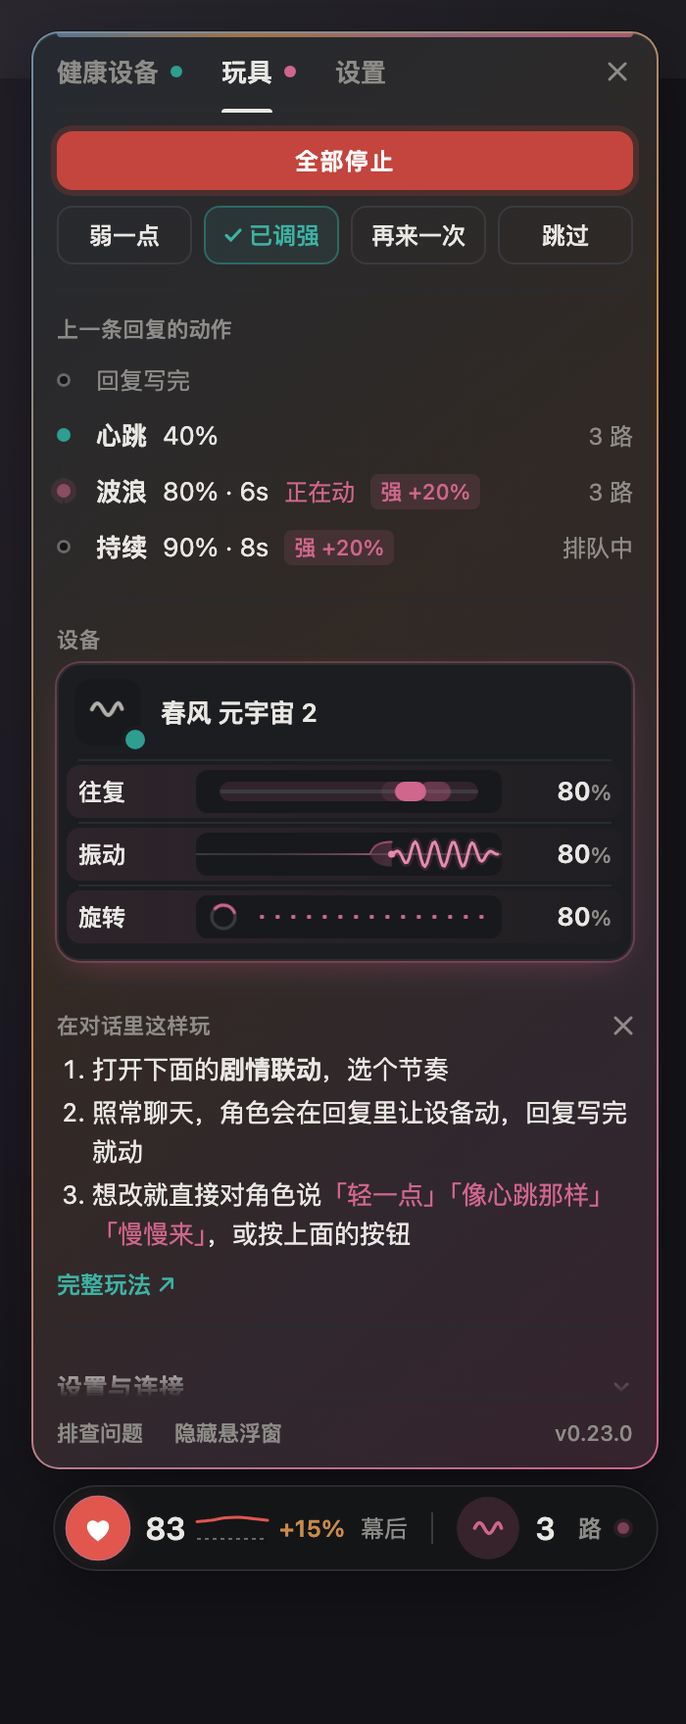
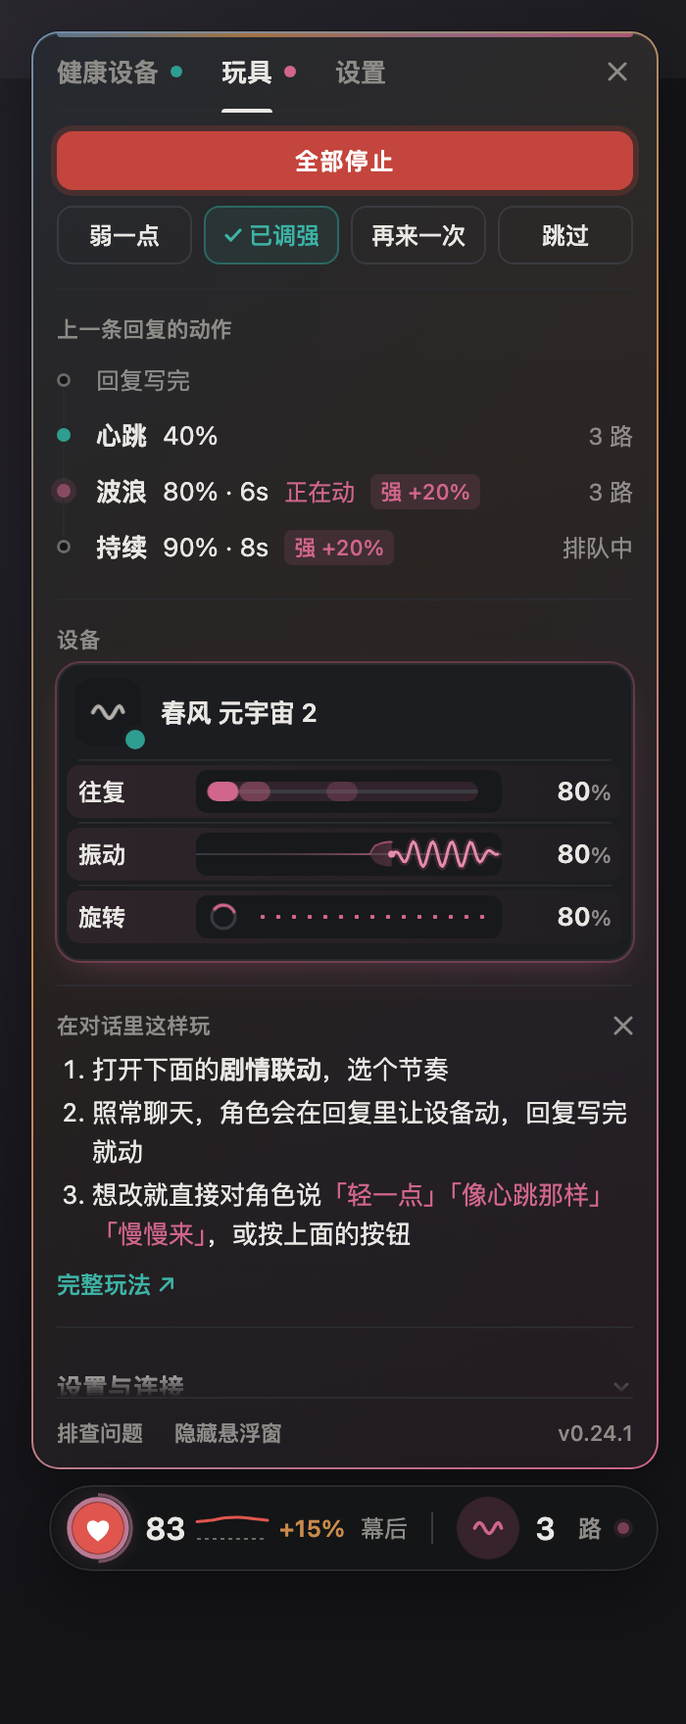
0.24.1: pill rings fit inside the capsule; README screenshots refreshed

diff --git a/index.js b/index.js
@@ -1,4 +1,4 @@
-// heartlink v0.24.0 — SillyTavern 扩展：心率注入 + 触觉输出（Tavern Bio-Context 参考实现）。构建产物。
+// heartlink v0.24.1 — SillyTavern 扩展：心率注入 + 触觉输出（Tavern Bio-Context 参考实现）。构建产物。
 // https://github.com/kcgoofee-jpg/heartlink-extension
 // heartlink core — 纯函数层。没有 DOM、没有蓝牙、没有酒馆 API，Node 和浏览器都能跑。
 // 运行时（runtime.js）和单元测试共用这一份。构建时与 runtime.js 拼成 dist/heartlink.js。
@@ -3321,7 +3321,7 @@ if (typeof module !== 'undefined' && module.exports) module.exports = HeartlinkD
 (function heartlinkRuntime() {
   'use strict';
 
-  const VERSION = '0.24.0';
+  const VERSION = '0.24.1';
   // 设置页“这一版”：里程碑与改了什么（用户 2026-09-19：里程碑要在界面上看得到）
   const MILESTONE = { name: '里程碑 3', notes: ['心跳节奏跟着相位微调：生成中更从容，打字更专注，判定出峰值那一拍会跳大一点', '模型读完上一轮的判断会在胶囊或面板上闪一下，看得出"传回来了"', '胶囊多一圈细环，显示这轮攒的数据离下次发出去还差多少', '平静心率旁边多一个呼吸的小环，不用看数字也能感觉出偏离', '离开时：切走页面才整体变灰，光是发一会儿呆不算，只是心跳轻一点'] };
   const CONFIG = {
@@ -3376,8 +3376,8 @@ if (typeof module !== 'undefined' && module.exports) module.exports = HeartlinkD
     LAB_URL: 'http://127.0.0.1:12346/lab/',   // 设备实验室（device-lab 仓库，npm run sim）
   };
   const LOG = '[heartlink]';
-  const GUIDE_BOOK = [{"name":"00 bio_context 读法","enabled":true,"content":"<bio_context_guide>\n对话中可能出现一个 <bio_context> 块（Tavern Bio-Context v0.3）。首行的 view 是视角（backstage 幕后 / in-story 入戏 / device-aware 知情），以它为准；mode 只是兼容旧读者的旧名。块首行还可能带 device / transport / cadence（采样间隔）/ rr（是否有心跳间期）/ trigger（本轮是新消息、重roll、continue 还是 impersonate）；cadence 越粗（30 秒以上）数据越稀疏，trigger 不是 normal 时 read 相位描述的是上一条被重roll或被续写的回复。它记录屏幕前那位真实读者在上一轮到这一轮之间的心率，按页面事件切成相位；数据来自读者佩戴的心率设备，是真实测量，不是剧情设定。\n相位归属（scope 行）：gen、read、read-pos 是读者等待和阅读**上一条回复**时的身体；write、send 是写**这一条消息**时和发送那一刻的身体。不要把 read 的峰值安到本轮新消息里发生的事情上。字段：\n- baseline：本场基线心率（quiet-median = 安静段中位数；p20 = 全场 20 分位；manual = 手动）与安静时 HRV。\n- prior：非实时来源（官方 API / 健康桥）的日级数据，带日期：昨夜恢复分、HRV、静息心率、睡眠时长、皮温。它说明读者今天的底子，不是此刻的反应；日期不是今天时不要当作今天。\n- history：最近几轮“读回复”的峰值、读时长、HRV，按时间顺序，最右是上一轮。看的是趋势：峰值一轮比一轮高说明越来越投入，越来越低说明在冷却。\n- gen：读者看上一条回复生成期间（ttft 等首字、reasoning 思维链、body 正文）的心率。\n- read：读上一条回复的时长、心率走向 [区间]、峰值出现在回复出完后多少秒、rr-loss（心跳间隔缺失率，越高说明手腕在动、数值可信度越低）、hrv。**这是最能反映读者对上一段内容反应的相位**；峰值时刻大致对应读到的位置。带 flag: too-long 的读回复不可当作阅读反应。\n- read-pos：把 read 的峰值时刻按阅读速度换算成大约读到回复的百分比与段落；est 是估计、cal 是按本场历史校准。它只回答“峰值大约对应哪一段”。写 partial 时表示读者读的时间远不够读完这条回复（在跳读或没读完），只给出峰值在读时长里的相对位置，不要当成段落位置。\n- cov：该相位的样本覆盖率，低于 70% 的相位数据不可靠。\n- write：写消息的时长、字数、停顿、删改与心率。手腕在动，只看大趋势。\n- away：页面切走或长时间无操作的区间，其中的心率与对话无关，忽略。\n- send：按下发送时的心率与相对基线的百分比。\n- env：读者所在房间的温湿度最近值，与身体反应无关，只是环境背景。\n- 其它信号行（如 pressure(civet, 100ms): read 7.9→12.3 kPa …）：读者身上别的传感器在同一相位里的走向，单位随行；只看相对变化，不与心率合成结论。\n- device：读者当前连接的设备正在做什么（强度、模式、持续时间），来自设备控制器的登记；它是作者视角的幕后事实，backstage 模式下角色不知道，in-story 模式下只允许角色察觉由它引起的可观察反应、不点名设备，device-aware 模式下角色知道这台设备、可以明说。\n- series：每 10 秒一个点的原始序列。\n判断尺度：baseline 为 n/a 时不做“比刚才 / 比平时快慢”的比较；与 away 重叠、带 flag 或 cov 低于 70% 的相位不据此判断。相对基线 10% 以内是噪声；持续高 20% 以上且出现在 read 相位，才是明确反应。HRV 明显低于安静值说明绷着或亢奋，明显高说明放松。块内没有结论，解释由你完成；块不出现时忽略本说明。\n</bio_context_guide>","strategy":{"type":"selective","keys":["<bio_context"]},"position":{"type":"after_character_definition","order":100},"recursion":{"prevent_incoming":true,"prevent_outgoing":true},"extra":{"heartlink":"0.24.0"}},{"name":"10 view=backstage 幕后（旧 mode=author）","enabled":true,"content":"<bio_context> 处于幕后模式（backstage，旧名 author）：它是给你这位作者/裁决者的幕后读者反馈，剧情里任何角色都不知道它，{{user}} 角色的身体状态与它无关。只做三件事：\n1. 从 read 与 history 判断读者对上一段的反应走向（被抓住了 / 平淡 / 正在冷却 / 数据不足），据此决定本段的详略、张力与结尾钩子；预设若有推进 / 节奏模式，结构（跳时、转场、新事件）仍按预设，读者反应只调写法。\n2. 反应上升时顺势推进、加深、留悬念；平淡时换手法（换视角、加冲突、加感官细节、缩短铺垫），不要重复上一段的写法；冷却时给一个新钩子。\n3. 不在正文里提及心率、设备、读者或任何数据；不让角色“察觉”读者；不因数据改变既定事实与规则裁决。","strategy":{"type":"selective","keys":["view=\"backstage\"","mode=\"author\""]},"position":{"type":"at_depth","role":"system","depth":0,"order":90},"recursion":{"prevent_incoming":true,"prevent_outgoing":true},"extra":{"heartlink":"0.24.0"}},{"name":"11 view=in-story 入戏（旧 mode=character）","enabled":true,"content":"<bio_context> 处于入戏模式（in-story，旧名 character）：读者代入 {{user}}。send 是 {{user}} 此刻的身体状态；read 是 {{user}} 经历上一段情节时的反应（只能对应上一段里发生的事，不能安到本轮新动作上）。让在场角色通过可观察的线索察觉（呼吸、面色、手、声音、姿态），并按各自性格与关系回应。仍然不说数字、不提设备；gen、write、away 的数据不用于角色感知。首行若有 perceiver 属性（卡片指定的感知者），只让这些角色表达察觉，其他在场角色照常行动、不评论 {{user}} 的身体。","strategy":{"type":"selective","keys":["view=\"in-story\""]},"position":{"type":"at_depth","role":"system","depth":0,"order":90},"recursion":{"prevent_incoming":true,"prevent_outgoing":true},"extra":{"heartlink":"0.24.0"}},{"name":"12 view=device-aware 知情","enabled":true,"content":"<bio_context> 处于知情模式（device-aware）：{{user}} 知道自己戴着设备，在场角色也知道，并能看到这份数据。角色可以引用数字（心率、比平静高多少、昨晚睡了多久），可以像教练或伴侣一样指导 {{user}}：提醒放松或屏住呼吸、问现在的感觉、说明接下来要让设备怎么动；haptics 行为 on 时可以用 <bio_act/>，并可以在正文里明说是自己让设备动的。仍然只描述数据、不替 {{user}} 下结论（不说“你一定很兴奋”），不臆断原因；read 只对应上一段发生的事；gen、write、away 的数据只作参考，不当作 {{user}} 对剧情的反应。首行若有 perceiver 属性，只让这些角色看数据、给指导。","strategy":{"type":"selective","keys":["view=\"device-aware\""]},"position":{"type":"at_depth","role":"system","depth":0,"order":90},"recursion":{"prevent_incoming":true,"prevent_outgoing":true},"extra":{"heartlink":"0.24.0"}},{"name":"20 feedback 读法","enabled":true,"content":"<bio_context_guide>\n块里的 feedback(…) 行是读者对玩具的操作，以及上一条回复里动作的执行结局，只记录不解释：\n- acts N sent 后面的 done / cut / pending / refused 是走完 / 被停或被打断 / 发送时还在排队 / 被拒，只是执行结局，不代表喜好。\n- stop by reader、skip：这一下不对。下一条不要加码，也不要重复同一模式，除非读者要求。\n- stronger、replay：这一下对了，可以顺着来。weaker：方向对，力度过了。pace 后面是读者换到的节奏档位。\n- stop by device（disconnected 断开、deadline 到时、heat-limit 限温、rate-limit 太频繁）是技术原因，不代表喜好。\n- stop by safeword：按用户的设定处理，下一条不写 <bio_act/>。\n- reply -1 是上一条回复，reply -2 是再早一条；act N 是其中第几个动作，Ns in 是动作开始后多久。\n呈现按视角：backstage 只影响写法；in-story 写成角色察觉到的反应，不提按钮；device-aware 角色可以直接说出读者刚才的操作，例如“你刚才按停了”。\n</bio_context_guide>","strategy":{"type":"selective","keys":["feedback("]},"position":{"type":"after_character_definition","order":101},"recursion":{"prevent_incoming":true,"prevent_outgoing":true},"extra":{"heartlink":"0.24.0"}},{"name":"30 bio_act 写法","enabled":true,"content":"<bio_act_guide>\n块里有 haptics(heartlink): on 时，读者连着玩具并允许剧情驱动。想让设备动，就在回复正文里写动作标签，回复写完后按出现顺序执行：\n<bio_act target=\"*\" output=\"Vibrate\" pattern=\"wave\" intensity=\"0.4\" ms=\"3000\"/>\n- 属性都可省略。target：设备，缺省 * 全部。output：Vibrate / Rotate / Oscillate / Constrict / Position 等，缺省 * 任意输出；Temperature、Estim、Spray 只有点名才会动。pattern：pulse / double / triple / long / heartbeat / wave，缺省 pulse。intensity：0–1，缺省 0.5，0 是停下。ms：毫秒，只对 long / heartbeat / wave 有效。\n- 每条回复最多 3 个（haptics 行的 profile 是 frenzy 或 max 时最多 5 个），多出的不执行。\n- 写在思维链（<think> 等）、代码、HTML 注释里的标签不算动作；标签在显示时会被隐藏。\n- 读者可以随时直接停下，不经过你；停下、跳过、调强调弱会在下一轮的 feedback 行里出现。\n- 什么时候动、动多强，跟着剧情和读者的反馈来。\n</bio_act_guide>","strategy":{"type":"selective","keys":["haptics(heartlink): on"]},"position":{"type":"after_character_definition","order":102},"recursion":{"prevent_incoming":true,"prevent_outgoing":true},"extra":{"heartlink":"0.24.0"}}];
-  const GUIDE_BOOK_NATIVE = [{"uid":0,"key":["<bio_context"],"keysecondary":[],"comment":"00 bio_context 读法","content":"<bio_context_guide>\n对话中可能出现一个 <bio_context> 块（Tavern Bio-Context v0.3）。首行的 view 是视角（backstage 幕后 / in-story 入戏 / device-aware 知情），以它为准；mode 只是兼容旧读者的旧名。块首行还可能带 device / transport / cadence（采样间隔）/ rr（是否有心跳间期）/ trigger（本轮是新消息、重roll、continue 还是 impersonate）；cadence 越粗（30 秒以上）数据越稀疏，trigger 不是 normal 时 read 相位描述的是上一条被重roll或被续写的回复。它记录屏幕前那位真实读者在上一轮到这一轮之间的心率，按页面事件切成相位；数据来自读者佩戴的心率设备，是真实测量，不是剧情设定。\n相位归属（scope 行）：gen、read、read-pos 是读者等待和阅读**上一条回复**时的身体；write、send 是写**这一条消息**时和发送那一刻的身体。不要把 read 的峰值安到本轮新消息里发生的事情上。字段：\n- baseline：本场基线心率（quiet-median = 安静段中位数；p20 = 全场 20 分位；manual = 手动）与安静时 HRV。\n- prior：非实时来源（官方 API / 健康桥）的日级数据，带日期：昨夜恢复分、HRV、静息心率、睡眠时长、皮温。它说明读者今天的底子，不是此刻的反应；日期不是今天时不要当作今天。\n- history：最近几轮“读回复”的峰值、读时长、HRV，按时间顺序，最右是上一轮。看的是趋势：峰值一轮比一轮高说明越来越投入，越来越低说明在冷却。\n- gen：读者看上一条回复生成期间（ttft 等首字、reasoning 思维链、body 正文）的心率。\n- read：读上一条回复的时长、心率走向 [区间]、峰值出现在回复出完后多少秒、rr-loss（心跳间隔缺失率，越高说明手腕在动、数值可信度越低）、hrv。**这是最能反映读者对上一段内容反应的相位**；峰值时刻大致对应读到的位置。带 flag: too-long 的读回复不可当作阅读反应。\n- read-pos：把 read 的峰值时刻按阅读速度换算成大约读到回复的百分比与段落；est 是估计、cal 是按本场历史校准。它只回答“峰值大约对应哪一段”。写 partial 时表示读者读的时间远不够读完这条回复（在跳读或没读完），只给出峰值在读时长里的相对位置，不要当成段落位置。\n- cov：该相位的样本覆盖率，低于 70% 的相位数据不可靠。\n- write：写消息的时长、字数、停顿、删改与心率。手腕在动，只看大趋势。\n- away：页面切走或长时间无操作的区间，其中的心率与对话无关，忽略。\n- send：按下发送时的心率与相对基线的百分比。\n- env：读者所在房间的温湿度最近值，与身体反应无关，只是环境背景。\n- 其它信号行（如 pressure(civet, 100ms): read 7.9→12.3 kPa …）：读者身上别的传感器在同一相位里的走向，单位随行；只看相对变化，不与心率合成结论。\n- device：读者当前连接的设备正在做什么（强度、模式、持续时间），来自设备控制器的登记；它是作者视角的幕后事实，backstage 模式下角色不知道，in-story 模式下只允许角色察觉由它引起的可观察反应、不点名设备，device-aware 模式下角色知道这台设备、可以明说。\n- series：每 10 秒一个点的原始序列。\n判断尺度：baseline 为 n/a 时不做“比刚才 / 比平时快慢”的比较；与 away 重叠、带 flag 或 cov 低于 70% 的相位不据此判断。相对基线 10% 以内是噪声；持续高 20% 以上且出现在 read 相位，才是明确反应。HRV 明显低于安静值说明绷着或亢奋，明显高说明放松。块内没有结论，解释由你完成；块不出现时忽略本说明。\n</bio_context_guide>","constant":false,"vectorized":false,"selective":true,"selectiveLogic":0,"addMemo":true,"order":100,"position":1,"disable":false,"excludeRecursion":true,"preventRecursion":true,"delayUntilRecursion":false,"probability":100,"useProbability":true,"depth":4,"group":"","groupOverride":false,"groupWeight":100,"scanDepth":null,"caseSensitive":false,"matchWholeWords":false,"useGroupScoring":null,"automationId":"","role":0,"sticky":0,"cooldown":0,"delay":0,"displayIndex":0,"heartlink":"0.24.0"},{"uid":1,"key":["view=\"backstage\"","mode=\"author\""],"keysecondary":[],"comment":"10 view=backstage 幕后（旧 mode=author）","content":"<bio_context> 处于幕后模式（backstage，旧名 author）：它是给你这位作者/裁决者的幕后读者反馈，剧情里任何角色都不知道它，{{user}} 角色的身体状态与它无关。只做三件事：\n1. 从 read 与 history 判断读者对上一段的反应走向（被抓住了 / 平淡 / 正在冷却 / 数据不足），据此决定本段的详略、张力与结尾钩子；预设若有推进 / 节奏模式，结构（跳时、转场、新事件）仍按预设，读者反应只调写法。\n2. 反应上升时顺势推进、加深、留悬念；平淡时换手法（换视角、加冲突、加感官细节、缩短铺垫），不要重复上一段的写法；冷却时给一个新钩子。\n3. 不在正文里提及心率、设备、读者或任何数据；不让角色“察觉”读者；不因数据改变既定事实与规则裁决。","constant":false,"vectorized":false,"selective":true,"selectiveLogic":0,"addMemo":true,"order":90,"position":4,"disable":false,"excludeRecursion":true,"preventRecursion":true,"delayUntilRecursion":false,"probability":100,"useProbability":true,"depth":0,"group":"","groupOverride":false,"groupWeight":100,"scanDepth":null,"caseSensitive":false,"matchWholeWords":false,"useGroupScoring":null,"automationId":"","role":0,"sticky":0,"cooldown":0,"delay":0,"displayIndex":1,"heartlink":"0.24.0"},{"uid":2,"key":["view=\"in-story\""],"keysecondary":[],"comment":"11 view=in-story 入戏（旧 mode=character）","content":"<bio_context> 处于入戏模式（in-story，旧名 character）：读者代入 {{user}}。send 是 {{user}} 此刻的身体状态；read 是 {{user}} 经历上一段情节时的反应（只能对应上一段里发生的事，不能安到本轮新动作上）。让在场角色通过可观察的线索察觉（呼吸、面色、手、声音、姿态），并按各自性格与关系回应。仍然不说数字、不提设备；gen、write、away 的数据不用于角色感知。首行若有 perceiver 属性（卡片指定的感知者），只让这些角色表达察觉，其他在场角色照常行动、不评论 {{user}} 的身体。","constant":false,"vectorized":false,"selective":true,"selectiveLogic":0,"addMemo":true,"order":90,"position":4,"disable":false,"excludeRecursion":true,"preventRecursion":true,"delayUntilRecursion":false,"probability":100,"useProbability":true,"depth":0,"group":"","groupOverride":false,"groupWeight":100,"scanDepth":null,"caseSensitive":false,"matchWholeWords":false,"useGroupScoring":null,"automationId":"","role":0,"sticky":0,"cooldown":0,"delay":0,"displayIndex":2,"heartlink":"0.24.0"},{"uid":3,"key":["view=\"device-aware\""],"keysecondary":[],"comment":"12 view=device-aware 知情","content":"<bio_context> 处于知情模式（device-aware）：{{user}} 知道自己戴着设备，在场角色也知道，并能看到这份数据。角色可以引用数字（心率、比平静高多少、昨晚睡了多久），可以像教练或伴侣一样指导 {{user}}：提醒放松或屏住呼吸、问现在的感觉、说明接下来要让设备怎么动；haptics 行为 on 时可以用 <bio_act/>，并可以在正文里明说是自己让设备动的。仍然只描述数据、不替 {{user}} 下结论（不说“你一定很兴奋”），不臆断原因；read 只对应上一段发生的事；gen、write、away 的数据只作参考，不当作 {{user}} 对剧情的反应。首行若有 perceiver 属性，只让这些角色看数据、给指导。","constant":false,"vectorized":false,"selective":true,"selectiveLogic":0,"addMemo":true,"order":90,"position":4,"disable":false,"excludeRecursion":true,"preventRecursion":true,"delayUntilRecursion":false,"probability":100,"useProbability":true,"depth":0,"group":"","groupOverride":false,"groupWeight":100,"scanDepth":null,"caseSensitive":false,"matchWholeWords":false,"useGroupScoring":null,"automationId":"","role":0,"sticky":0,"cooldown":0,"delay":0,"displayIndex":3,"heartlink":"0.24.0"},{"uid":4,"key":["feedback("],"keysecondary":[],"comment":"20 feedback 读法","content":"<bio_context_guide>\n块里的 feedback(…) 行是读者对玩具的操作，以及上一条回复里动作的执行结局，只记录不解释：\n- acts N sent 后面的 done / cut / pending / refused 是走完 / 被停或被打断 / 发送时还在排队 / 被拒，只是执行结局，不代表喜好。\n- stop by reader、skip：这一下不对。下一条不要加码，也不要重复同一模式，除非读者要求。\n- stronger、replay：这一下对了，可以顺着来。weaker：方向对，力度过了。pace 后面是读者换到的节奏档位。\n- stop by device（disconnected 断开、deadline 到时、heat-limit 限温、rate-limit 太频繁）是技术原因，不代表喜好。\n- stop by safeword：按用户的设定处理，下一条不写 <bio_act/>。\n- reply -1 是上一条回复，reply -2 是再早一条；act N 是其中第几个动作，Ns in 是动作开始后多久。\n呈现按视角：backstage 只影响写法；in-story 写成角色察觉到的反应，不提按钮；device-aware 角色可以直接说出读者刚才的操作，例如“你刚才按停了”。\n</bio_context_guide>","constant":false,"vectorized":false,"selective":true,"selectiveLogic":0,"addMemo":true,"order":101,"position":1,"disable":false,"excludeRecursion":true,"preventRecursion":true,"delayUntilRecursion":false,"probability":100,"useProbability":true,"depth":4,"group":"","groupOverride":false,"groupWeight":100,"scanDepth":null,"caseSensitive":false,"matchWholeWords":false,"useGroupScoring":null,"automationId":"","role":0,"sticky":0,"cooldown":0,"delay":0,"displayIndex":4,"heartlink":"0.24.0"},{"uid":5,"key":["haptics(heartlink): on"],"keysecondary":[],"comment":"30 bio_act 写法","content":"<bio_act_guide>\n块里有 haptics(heartlink): on 时，读者连着玩具并允许剧情驱动。想让设备动，就在回复正文里写动作标签，回复写完后按出现顺序执行：\n<bio_act target=\"*\" output=\"Vibrate\" pattern=\"wave\" intensity=\"0.4\" ms=\"3000\"/>\n- 属性都可省略。target：设备，缺省 * 全部。output：Vibrate / Rotate / Oscillate / Constrict / Position 等，缺省 * 任意输出；Temperature、Estim、Spray 只有点名才会动。pattern：pulse / double / triple / long / heartbeat / wave，缺省 pulse。intensity：0–1，缺省 0.5，0 是停下。ms：毫秒，只对 long / heartbeat / wave 有效。\n- 每条回复最多 3 个（haptics 行的 profile 是 frenzy 或 max 时最多 5 个），多出的不执行。\n- 写在思维链（<think> 等）、代码、HTML 注释里的标签不算动作；标签在显示时会被隐藏。\n- 读者可以随时直接停下，不经过你；停下、跳过、调强调弱会在下一轮的 feedback 行里出现。\n- 什么时候动、动多强，跟着剧情和读者的反馈来。\n</bio_act_guide>","constant":false,"vectorized":false,"selective":true,"selectiveLogic":0,"addMemo":true,"order":102,"position":1,"disable":false,"excludeRecursion":true,"preventRecursion":true,"delayUntilRecursion":false,"probability":100,"useProbability":true,"depth":4,"group":"","groupOverride":false,"groupWeight":100,"scanDepth":null,"caseSensitive":false,"matchWholeWords":false,"useGroupScoring":null,"automationId":"","role":0,"sticky":0,"cooldown":0,"delay":0,"displayIndex":5,"heartlink":"0.24.0"}];
+  const GUIDE_BOOK = [{"name":"00 bio_context 读法","enabled":true,"content":"<bio_context_guide>\n对话中可能出现一个 <bio_context> 块（Tavern Bio-Context v0.3）。首行的 view 是视角（backstage 幕后 / in-story 入戏 / device-aware 知情），以它为准；mode 只是兼容旧读者的旧名。块首行还可能带 device / transport / cadence（采样间隔）/ rr（是否有心跳间期）/ trigger（本轮是新消息、重roll、continue 还是 impersonate）；cadence 越粗（30 秒以上）数据越稀疏，trigger 不是 normal 时 read 相位描述的是上一条被重roll或被续写的回复。它记录屏幕前那位真实读者在上一轮到这一轮之间的心率，按页面事件切成相位；数据来自读者佩戴的心率设备，是真实测量，不是剧情设定。\n相位归属（scope 行）：gen、read、read-pos 是读者等待和阅读**上一条回复**时的身体；write、send 是写**这一条消息**时和发送那一刻的身体。不要把 read 的峰值安到本轮新消息里发生的事情上。字段：\n- baseline：本场基线心率（quiet-median = 安静段中位数；p20 = 全场 20 分位；manual = 手动）与安静时 HRV。\n- prior：非实时来源（官方 API / 健康桥）的日级数据，带日期：昨夜恢复分、HRV、静息心率、睡眠时长、皮温。它说明读者今天的底子，不是此刻的反应；日期不是今天时不要当作今天。\n- history：最近几轮“读回复”的峰值、读时长、HRV，按时间顺序，最右是上一轮。看的是趋势：峰值一轮比一轮高说明越来越投入，越来越低说明在冷却。\n- gen：读者看上一条回复生成期间（ttft 等首字、reasoning 思维链、body 正文）的心率。\n- read：读上一条回复的时长、心率走向 [区间]、峰值出现在回复出完后多少秒、rr-loss（心跳间隔缺失率，越高说明手腕在动、数值可信度越低）、hrv。**这是最能反映读者对上一段内容反应的相位**；峰值时刻大致对应读到的位置。带 flag: too-long 的读回复不可当作阅读反应。\n- read-pos：把 read 的峰值时刻按阅读速度换算成大约读到回复的百分比与段落；est 是估计、cal 是按本场历史校准。它只回答“峰值大约对应哪一段”。写 partial 时表示读者读的时间远不够读完这条回复（在跳读或没读完），只给出峰值在读时长里的相对位置，不要当成段落位置。\n- cov：该相位的样本覆盖率，低于 70% 的相位数据不可靠。\n- write：写消息的时长、字数、停顿、删改与心率。手腕在动，只看大趋势。\n- away：页面切走或长时间无操作的区间，其中的心率与对话无关，忽略。\n- send：按下发送时的心率与相对基线的百分比。\n- env：读者所在房间的温湿度最近值，与身体反应无关，只是环境背景。\n- 其它信号行（如 pressure(civet, 100ms): read 7.9→12.3 kPa …）：读者身上别的传感器在同一相位里的走向，单位随行；只看相对变化，不与心率合成结论。\n- device：读者当前连接的设备正在做什么（强度、模式、持续时间），来自设备控制器的登记；它是作者视角的幕后事实，backstage 模式下角色不知道，in-story 模式下只允许角色察觉由它引起的可观察反应、不点名设备，device-aware 模式下角色知道这台设备、可以明说。\n- series：每 10 秒一个点的原始序列。\n判断尺度：baseline 为 n/a 时不做“比刚才 / 比平时快慢”的比较；与 away 重叠、带 flag 或 cov 低于 70% 的相位不据此判断。相对基线 10% 以内是噪声；持续高 20% 以上且出现在 read 相位，才是明确反应。HRV 明显低于安静值说明绷着或亢奋，明显高说明放松。块内没有结论，解释由你完成；块不出现时忽略本说明。\n</bio_context_guide>","strategy":{"type":"selective","keys":["<bio_context"]},"position":{"type":"after_character_definition","order":100},"recursion":{"prevent_incoming":true,"prevent_outgoing":true},"extra":{"heartlink":"0.24.1"}},{"name":"10 view=backstage 幕后（旧 mode=author）","enabled":true,"content":"<bio_context> 处于幕后模式（backstage，旧名 author）：它是给你这位作者/裁决者的幕后读者反馈，剧情里任何角色都不知道它，{{user}} 角色的身体状态与它无关。只做三件事：\n1. 从 read 与 history 判断读者对上一段的反应走向（被抓住了 / 平淡 / 正在冷却 / 数据不足），据此决定本段的详略、张力与结尾钩子；预设若有推进 / 节奏模式，结构（跳时、转场、新事件）仍按预设，读者反应只调写法。\n2. 反应上升时顺势推进、加深、留悬念；平淡时换手法（换视角、加冲突、加感官细节、缩短铺垫），不要重复上一段的写法；冷却时给一个新钩子。\n3. 不在正文里提及心率、设备、读者或任何数据；不让角色“察觉”读者；不因数据改变既定事实与规则裁决。","strategy":{"type":"selective","keys":["view=\"backstage\"","mode=\"author\""]},"position":{"type":"at_depth","role":"system","depth":0,"order":90},"recursion":{"prevent_incoming":true,"prevent_outgoing":true},"extra":{"heartlink":"0.24.1"}},{"name":"11 view=in-story 入戏（旧 mode=character）","enabled":true,"content":"<bio_context> 处于入戏模式（in-story，旧名 character）：读者代入 {{user}}。send 是 {{user}} 此刻的身体状态；read 是 {{user}} 经历上一段情节时的反应（只能对应上一段里发生的事，不能安到本轮新动作上）。让在场角色通过可观察的线索察觉（呼吸、面色、手、声音、姿态），并按各自性格与关系回应。仍然不说数字、不提设备；gen、write、away 的数据不用于角色感知。首行若有 perceiver 属性（卡片指定的感知者），只让这些角色表达察觉，其他在场角色照常行动、不评论 {{user}} 的身体。","strategy":{"type":"selective","keys":["view=\"in-story\""]},"position":{"type":"at_depth","role":"system","depth":0,"order":90},"recursion":{"prevent_incoming":true,"prevent_outgoing":true},"extra":{"heartlink":"0.24.1"}},{"name":"12 view=device-aware 知情","enabled":true,"content":"<bio_context> 处于知情模式（device-aware）：{{user}} 知道自己戴着设备，在场角色也知道，并能看到这份数据。角色可以引用数字（心率、比平静高多少、昨晚睡了多久），可以像教练或伴侣一样指导 {{user}}：提醒放松或屏住呼吸、问现在的感觉、说明接下来要让设备怎么动；haptics 行为 on 时可以用 <bio_act/>，并可以在正文里明说是自己让设备动的。仍然只描述数据、不替 {{user}} 下结论（不说“你一定很兴奋”），不臆断原因；read 只对应上一段发生的事；gen、write、away 的数据只作参考，不当作 {{user}} 对剧情的反应。首行若有 perceiver 属性，只让这些角色看数据、给指导。","strategy":{"type":"selective","keys":["view=\"device-aware\""]},"position":{"type":"at_depth","role":"system","depth":0,"order":90},"recursion":{"prevent_incoming":true,"prevent_outgoing":true},"extra":{"heartlink":"0.24.1"}},{"name":"20 feedback 读法","enabled":true,"content":"<bio_context_guide>\n块里的 feedback(…) 行是读者对玩具的操作，以及上一条回复里动作的执行结局，只记录不解释：\n- acts N sent 后面的 done / cut / pending / refused 是走完 / 被停或被打断 / 发送时还在排队 / 被拒，只是执行结局，不代表喜好。\n- stop by reader、skip：这一下不对。下一条不要加码，也不要重复同一模式，除非读者要求。\n- stronger、replay：这一下对了，可以顺着来。weaker：方向对，力度过了。pace 后面是读者换到的节奏档位。\n- stop by device（disconnected 断开、deadline 到时、heat-limit 限温、rate-limit 太频繁）是技术原因，不代表喜好。\n- stop by safeword：按用户的设定处理，下一条不写 <bio_act/>。\n- reply -1 是上一条回复，reply -2 是再早一条；act N 是其中第几个动作，Ns in 是动作开始后多久。\n呈现按视角：backstage 只影响写法；in-story 写成角色察觉到的反应，不提按钮；device-aware 角色可以直接说出读者刚才的操作，例如“你刚才按停了”。\n</bio_context_guide>","strategy":{"type":"selective","keys":["feedback("]},"position":{"type":"after_character_definition","order":101},"recursion":{"prevent_incoming":true,"prevent_outgoing":true},"extra":{"heartlink":"0.24.1"}},{"name":"30 bio_act 写法","enabled":true,"content":"<bio_act_guide>\n块里有 haptics(heartlink): on 时，读者连着玩具并允许剧情驱动。想让设备动，就在回复正文里写动作标签，回复写完后按出现顺序执行：\n<bio_act target=\"*\" output=\"Vibrate\" pattern=\"wave\" intensity=\"0.4\" ms=\"3000\"/>\n- 属性都可省略。target：设备，缺省 * 全部。output：Vibrate / Rotate / Oscillate / Constrict / Position 等，缺省 * 任意输出；Temperature、Estim、Spray 只有点名才会动。pattern：pulse / double / triple / long / heartbeat / wave，缺省 pulse。intensity：0–1，缺省 0.5，0 是停下。ms：毫秒，只对 long / heartbeat / wave 有效。\n- 每条回复最多 3 个（haptics 行的 profile 是 frenzy 或 max 时最多 5 个），多出的不执行。\n- 写在思维链（<think> 等）、代码、HTML 注释里的标签不算动作；标签在显示时会被隐藏。\n- 读者可以随时直接停下，不经过你；停下、跳过、调强调弱会在下一轮的 feedback 行里出现。\n- 什么时候动、动多强，跟着剧情和读者的反馈来。\n</bio_act_guide>","strategy":{"type":"selective","keys":["haptics(heartlink): on"]},"position":{"type":"after_character_definition","order":102},"recursion":{"prevent_incoming":true,"prevent_outgoing":true},"extra":{"heartlink":"0.24.1"}}];
+  const GUIDE_BOOK_NATIVE = [{"uid":0,"key":["<bio_context"],"keysecondary":[],"comment":"00 bio_context 读法","content":"<bio_context_guide>\n对话中可能出现一个 <bio_context> 块（Tavern Bio-Context v0.3）。首行的 view 是视角（backstage 幕后 / in-story 入戏 / device-aware 知情），以它为准；mode 只是兼容旧读者的旧名。块首行还可能带 device / transport / cadence（采样间隔）/ rr（是否有心跳间期）/ trigger（本轮是新消息、重roll、continue 还是 impersonate）；cadence 越粗（30 秒以上）数据越稀疏，trigger 不是 normal 时 read 相位描述的是上一条被重roll或被续写的回复。它记录屏幕前那位真实读者在上一轮到这一轮之间的心率，按页面事件切成相位；数据来自读者佩戴的心率设备，是真实测量，不是剧情设定。\n相位归属（scope 行）：gen、read、read-pos 是读者等待和阅读**上一条回复**时的身体；write、send 是写**这一条消息**时和发送那一刻的身体。不要把 read 的峰值安到本轮新消息里发生的事情上。字段：\n- baseline：本场基线心率（quiet-median = 安静段中位数；p20 = 全场 20 分位；manual = 手动）与安静时 HRV。\n- prior：非实时来源（官方 API / 健康桥）的日级数据，带日期：昨夜恢复分、HRV、静息心率、睡眠时长、皮温。它说明读者今天的底子，不是此刻的反应；日期不是今天时不要当作今天。\n- history：最近几轮“读回复”的峰值、读时长、HRV，按时间顺序，最右是上一轮。看的是趋势：峰值一轮比一轮高说明越来越投入，越来越低说明在冷却。\n- gen：读者看上一条回复生成期间（ttft 等首字、reasoning 思维链、body 正文）的心率。\n- read：读上一条回复的时长、心率走向 [区间]、峰值出现在回复出完后多少秒、rr-loss（心跳间隔缺失率，越高说明手腕在动、数值可信度越低）、hrv。**这是最能反映读者对上一段内容反应的相位**；峰值时刻大致对应读到的位置。带 flag: too-long 的读回复不可当作阅读反应。\n- read-pos：把 read 的峰值时刻按阅读速度换算成大约读到回复的百分比与段落；est 是估计、cal 是按本场历史校准。它只回答“峰值大约对应哪一段”。写 partial 时表示读者读的时间远不够读完这条回复（在跳读或没读完），只给出峰值在读时长里的相对位置，不要当成段落位置。\n- cov：该相位的样本覆盖率，低于 70% 的相位数据不可靠。\n- write：写消息的时长、字数、停顿、删改与心率。手腕在动，只看大趋势。\n- away：页面切走或长时间无操作的区间，其中的心率与对话无关，忽略。\n- send：按下发送时的心率与相对基线的百分比。\n- env：读者所在房间的温湿度最近值，与身体反应无关，只是环境背景。\n- 其它信号行（如 pressure(civet, 100ms): read 7.9→12.3 kPa …）：读者身上别的传感器在同一相位里的走向，单位随行；只看相对变化，不与心率合成结论。\n- device：读者当前连接的设备正在做什么（强度、模式、持续时间），来自设备控制器的登记；它是作者视角的幕后事实，backstage 模式下角色不知道，in-story 模式下只允许角色察觉由它引起的可观察反应、不点名设备，device-aware 模式下角色知道这台设备、可以明说。\n- series：每 10 秒一个点的原始序列。\n判断尺度：baseline 为 n/a 时不做“比刚才 / 比平时快慢”的比较；与 away 重叠、带 flag 或 cov 低于 70% 的相位不据此判断。相对基线 10% 以内是噪声；持续高 20% 以上且出现在 read 相位，才是明确反应。HRV 明显低于安静值说明绷着或亢奋，明显高说明放松。块内没有结论，解释由你完成；块不出现时忽略本说明。\n</bio_context_guide>","constant":false,"vectorized":false,"selective":true,"selectiveLogic":0,"addMemo":true,"order":100,"position":1,"disable":false,"excludeRecursion":true,"preventRecursion":true,"delayUntilRecursion":false,"probability":100,"useProbability":true,"depth":4,"group":"","groupOverride":false,"groupWeight":100,"scanDepth":null,"caseSensitive":false,"matchWholeWords":false,"useGroupScoring":null,"automationId":"","role":0,"sticky":0,"cooldown":0,"delay":0,"displayIndex":0,"heartlink":"0.24.1"},{"uid":1,"key":["view=\"backstage\"","mode=\"author\""],"keysecondary":[],"comment":"10 view=backstage 幕后（旧 mode=author）","content":"<bio_context> 处于幕后模式（backstage，旧名 author）：它是给你这位作者/裁决者的幕后读者反馈，剧情里任何角色都不知道它，{{user}} 角色的身体状态与它无关。只做三件事：\n1. 从 read 与 history 判断读者对上一段的反应走向（被抓住了 / 平淡 / 正在冷却 / 数据不足），据此决定本段的详略、张力与结尾钩子；预设若有推进 / 节奏模式，结构（跳时、转场、新事件）仍按预设，读者反应只调写法。\n2. 反应上升时顺势推进、加深、留悬念；平淡时换手法（换视角、加冲突、加感官细节、缩短铺垫），不要重复上一段的写法；冷却时给一个新钩子。\n3. 不在正文里提及心率、设备、读者或任何数据；不让角色“察觉”读者；不因数据改变既定事实与规则裁决。","constant":false,"vectorized":false,"selective":true,"selectiveLogic":0,"addMemo":true,"order":90,"position":4,"disable":false,"excludeRecursion":true,"preventRecursion":true,"delayUntilRecursion":false,"probability":100,"useProbability":true,"depth":0,"group":"","groupOverride":false,"groupWeight":100,"scanDepth":null,"caseSensitive":false,"matchWholeWords":false,"useGroupScoring":null,"automationId":"","role":0,"sticky":0,"cooldown":0,"delay":0,"displayIndex":1,"heartlink":"0.24.1"},{"uid":2,"key":["view=\"in-story\""],"keysecondary":[],"comment":"11 view=in-story 入戏（旧 mode=character）","content":"<bio_context> 处于入戏模式（in-story，旧名 character）：读者代入 {{user}}。send 是 {{user}} 此刻的身体状态；read 是 {{user}} 经历上一段情节时的反应（只能对应上一段里发生的事，不能安到本轮新动作上）。让在场角色通过可观察的线索察觉（呼吸、面色、手、声音、姿态），并按各自性格与关系回应。仍然不说数字、不提设备；gen、write、away 的数据不用于角色感知。首行若有 perceiver 属性（卡片指定的感知者），只让这些角色表达察觉，其他在场角色照常行动、不评论 {{user}} 的身体。","constant":false,"vectorized":false,"selective":true,"selectiveLogic":0,"addMemo":true,"order":90,"position":4,"disable":false,"excludeRecursion":true,"preventRecursion":true,"delayUntilRecursion":false,"probability":100,"useProbability":true,"depth":0,"group":"","groupOverride":false,"groupWeight":100,"scanDepth":null,"caseSensitive":false,"matchWholeWords":false,"useGroupScoring":null,"automationId":"","role":0,"sticky":0,"cooldown":0,"delay":0,"displayIndex":2,"heartlink":"0.24.1"},{"uid":3,"key":["view=\"device-aware\""],"keysecondary":[],"comment":"12 view=device-aware 知情","content":"<bio_context> 处于知情模式（device-aware）：{{user}} 知道自己戴着设备，在场角色也知道，并能看到这份数据。角色可以引用数字（心率、比平静高多少、昨晚睡了多久），可以像教练或伴侣一样指导 {{user}}：提醒放松或屏住呼吸、问现在的感觉、说明接下来要让设备怎么动；haptics 行为 on 时可以用 <bio_act/>，并可以在正文里明说是自己让设备动的。仍然只描述数据、不替 {{user}} 下结论（不说“你一定很兴奋”），不臆断原因；read 只对应上一段发生的事；gen、write、away 的数据只作参考，不当作 {{user}} 对剧情的反应。首行若有 perceiver 属性，只让这些角色看数据、给指导。","constant":false,"vectorized":false,"selective":true,"selectiveLogic":0,"addMemo":true,"order":90,"position":4,"disable":false,"excludeRecursion":true,"preventRecursion":true,"delayUntilRecursion":false,"probability":100,"useProbability":true,"depth":0,"group":"","groupOverride":false,"groupWeight":100,"scanDepth":null,"caseSensitive":false,"matchWholeWords":false,"useGroupScoring":null,"automationId":"","role":0,"sticky":0,"cooldown":0,"delay":0,"displayIndex":3,"heartlink":"0.24.1"},{"uid":4,"key":["feedback("],"keysecondary":[],"comment":"20 feedback 读法","content":"<bio_context_guide>\n块里的 feedback(…) 行是读者对玩具的操作，以及上一条回复里动作的执行结局，只记录不解释：\n- acts N sent 后面的 done / cut / pending / refused 是走完 / 被停或被打断 / 发送时还在排队 / 被拒，只是执行结局，不代表喜好。\n- stop by reader、skip：这一下不对。下一条不要加码，也不要重复同一模式，除非读者要求。\n- stronger、replay：这一下对了，可以顺着来。weaker：方向对，力度过了。pace 后面是读者换到的节奏档位。\n- stop by device（disconnected 断开、deadline 到时、heat-limit 限温、rate-limit 太频繁）是技术原因，不代表喜好。\n- stop by safeword：按用户的设定处理，下一条不写 <bio_act/>。\n- reply -1 是上一条回复，reply -2 是再早一条；act N 是其中第几个动作，Ns in 是动作开始后多久。\n呈现按视角：backstage 只影响写法；in-story 写成角色察觉到的反应，不提按钮；device-aware 角色可以直接说出读者刚才的操作，例如“你刚才按停了”。\n</bio_context_guide>","constant":false,"vectorized":false,"selective":true,"selectiveLogic":0,"addMemo":true,"order":101,"position":1,"disable":false,"excludeRecursion":true,"preventRecursion":true,"delayUntilRecursion":false,"probability":100,"useProbability":true,"depth":4,"group":"","groupOverride":false,"groupWeight":100,"scanDepth":null,"caseSensitive":false,"matchWholeWords":false,"useGroupScoring":null,"automationId":"","role":0,"sticky":0,"cooldown":0,"delay":0,"displayIndex":4,"heartlink":"0.24.1"},{"uid":5,"key":["haptics(heartlink): on"],"keysecondary":[],"comment":"30 bio_act 写法","content":"<bio_act_guide>\n块里有 haptics(heartlink): on 时，读者连着玩具并允许剧情驱动。想让设备动，就在回复正文里写动作标签，回复写完后按出现顺序执行：\n<bio_act target=\"*\" output=\"Vibrate\" pattern=\"wave\" intensity=\"0.4\" ms=\"3000\"/>\n- 属性都可省略。target：设备，缺省 * 全部。output：Vibrate / Rotate / Oscillate / Constrict / Position 等，缺省 * 任意输出；Temperature、Estim、Spray 只有点名才会动。pattern：pulse / double / triple / long / heartbeat / wave，缺省 pulse。intensity：0–1，缺省 0.5，0 是停下。ms：毫秒，只对 long / heartbeat / wave 有效。\n- 每条回复最多 3 个（haptics 行的 profile 是 frenzy 或 max 时最多 5 个），多出的不执行。\n- 写在思维链（<think> 等）、代码、HTML 注释里的标签不算动作；标签在显示时会被隐藏。\n- 读者可以随时直接停下，不经过你；停下、跳过、调强调弱会在下一轮的 feedback 行里出现。\n- 什么时候动、动多强，跟着剧情和读者的反馈来。\n</bio_act_guide>","constant":false,"vectorized":false,"selective":true,"selectiveLogic":0,"addMemo":true,"order":102,"position":1,"disable":false,"excludeRecursion":true,"preventRecursion":true,"delayUntilRecursion":false,"probability":100,"useProbability":true,"depth":4,"group":"","groupOverride":false,"groupWeight":100,"scanDepth":null,"caseSensitive":false,"matchWholeWords":false,"useGroupScoring":null,"automationId":"","role":0,"sticky":0,"cooldown":0,"delay":0,"displayIndex":5,"heartlink":"0.24.1"}];
   // 1.0：同一份源码构建两种形态——'script' 酒馆助手全局脚本（旧），'extension' 酒馆扩展
   const FORM = 'extension';
   // 开发者工具（设备模拟器按钮等）：发布版关闭
@@ -5915,7 +5915,7 @@ button:focus-visible{outline:2px solid var(--on-ink);outline-offset:2px}
 /* v3 第二批（design.md #6）：读回复相位扫描点淡出 */
 @keyframes scanout{from{opacity:1}to{opacity:0}}
 /* 胶囊 */
-.pill{position:relative;isolation:isolate;display:inline-flex;align-items:center;height:44px;padding:0 14px 0 6px;border-radius:999px;background:var(--bg);border:1px solid var(--hair);
+.pill{position:relative;isolation:isolate;display:inline-flex;align-items:center;height:44px;padding:0 14px 0 8px;border-radius:999px;background:var(--bg);border:1px solid var(--hair);
   box-shadow:var(--shadow);backdrop-filter:blur(16px) saturate(1.2);-webkit-backdrop-filter:blur(16px) saturate(1.2);cursor:pointer;white-space:nowrap;user-select:none;-webkit-user-select:none;touch-action:none;transition:border-color .15s,transform .15s}
 .pill:hover{border-color:var(--line2)}
 .pill:active{transform:scale(.985)}
@@ -5924,15 +5924,18 @@ button:focus-visible{outline:2px solid var(--on-ink);outline-offset:2px}
 .psep{width:1px;height:16px;background:var(--line2);margin:0 12px;flex:none}
 /* v3：discwrap 包住相位环 + 径向环境光 + 圆盘，三层同心（离开时只让圆盘变灰，环与光晕跟着 --phase 换色，见 design.md #1） */
 .discwrap{position:relative;width:32px;height:32px;flex:none}
+/* 0.24.1：积累环原先 inset:-10px（52px）超出 44px 胶囊。心率圆盘缩到 26px 居中，相位环画在 32px 槽位里（r=14.6，内缘≈13.4 > 圆盘 13），
+   积累环 inset:-5px（42px）收在胶囊内；玩具圆盘不变 */
+.discwrap .disc.hr{position:absolute;inset:3px;width:26px;height:26px}
 .glow{position:absolute;inset:-8px;z-index:0;border-radius:50%;pointer-events:none;opacity:.16;background:radial-gradient(circle,var(--phase,var(--heart)) 0%,transparent 70%)}
 /* 审查 U-R1（2026-09-19）：inset:-3px/r=13 时环几乎整段压在 32px 不透明圆盘底下，只露不到 1px；
    放大到 inset:-6px + stroke-width:2.5，内缘 ≈16.6px 清楚露在圆盘（半径 16px）外面 */
-.phring{position:absolute;inset:-6px;z-index:1;pointer-events:none;transform:rotate(-90deg)}
+.phring{position:absolute;inset:0;z-index:1;pointer-events:none;transform:rotate(-90deg)}
 .phring circle{fill:none;stroke-width:2.5}
 .phring .prg-bg{stroke:transparent}
 .phring .prg-fg{stroke:var(--phase,var(--gen));transition:stroke .32s cubic-bezier(.4,0,.2,1)}
 /* v3 第二批（design.md #5）：胶囊外层待发送积累环，再外一圈、更细，与 .phring 同心但半径更大，不会被圆盘或相位环压住 */
-.accring{position:absolute;inset:-10px;z-index:1;pointer-events:none;transform:rotate(-90deg)}
+.accring{position:absolute;inset:-5px;z-index:1;pointer-events:none;transform:rotate(-90deg)}
 .accring circle{fill:none;stroke-width:1.2}
 .accring .acc-bg{stroke:transparent}
 .accring .acc-fg{stroke:var(--phase,var(--gen));opacity:.55;transition:stroke-dashoffset .3s linear}
@@ -6574,7 +6577,7 @@ button.dh:hover{background:var(--hover)}
     <span class="discwrap">
       <span class="glow" data-f="glow"></span>
       <svg class="accring" viewBox="0 0 32 32" aria-hidden="true" title="离下次发给模型还要攒多久"><circle class="acc-bg" cx="16" cy="16" r="13"/><circle class="acc-fg" data-f="accRing" cx="16" cy="16" r="13"/></svg>
-      <svg class="phring" viewBox="0 0 32 32" aria-hidden="true"><circle class="prg-bg" cx="16" cy="16" r="13"/><circle class="prg-fg" data-f="phRing" cx="16" cy="16" r="13"/></svg>
+      <svg class="phring" viewBox="0 0 32 32" aria-hidden="true"><circle class="prg-bg" cx="16" cy="16" r="14.6"/><circle class="prg-fg" data-f="phRing" cx="16" cy="16" r="14.6"/></svg>
       <span class="disc hr off">${HEART_SVG}</span>
     </span>
     <span class="num" data-f="bpm">--</span>

diff --git a/CHANGELOG.md b/CHANGELOG.md
@@ -1,5 +1,10 @@
 # 更新记录
 
+## 0.24.1（2026-09-19 · 内测 · 小修）
+
+- 胶囊外圈“攒了多少”环原先比胶囊还高，上下露出胶囊边缘；心率圆盘缩小一点，两层环都收进胶囊里，相位环仍清楚露在圆盘外。
+- README 截图换成 0.24。
+
 ## 0.24.0（2026-09-19 · 内测 · 里程碑 3）
 
 - **心跳节奏跟着相位微调**：不只是换颜色——生成中等待时两次跳动隔得更开、更从容；打字专注时收紧一些；读回复阶段一旦判定出本轮峰值，那一拍的第二跳会明显放大一次，呼应“峰值点只画判定过的”。
